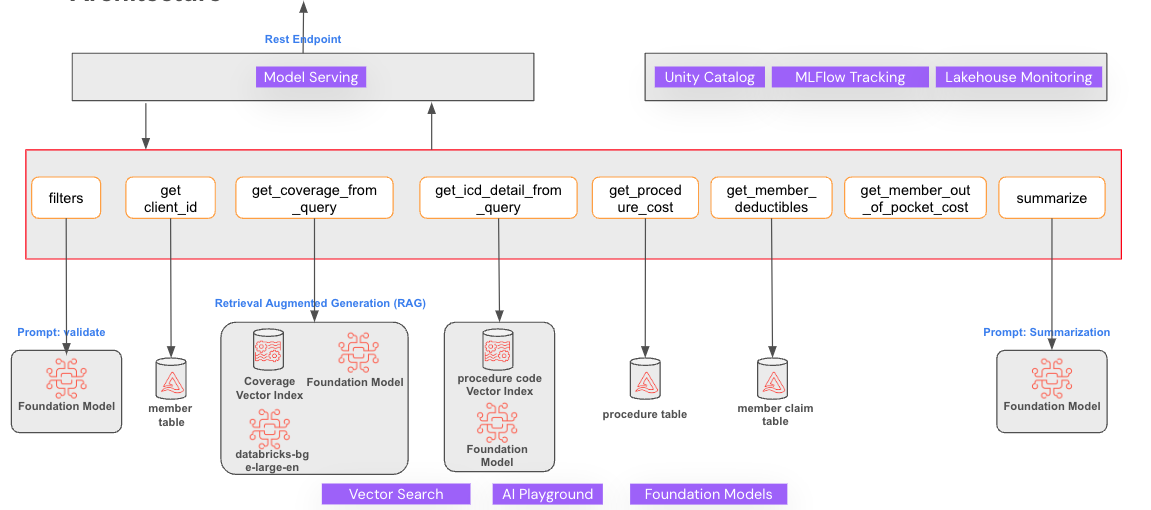
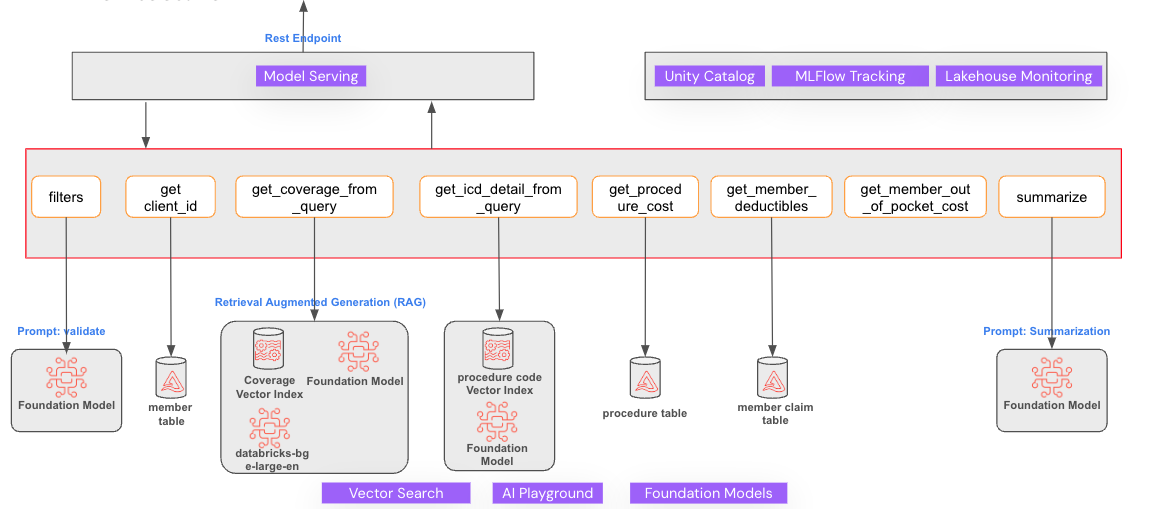
images and documentation

diff --git a/03 Create Vector Index.py b/03 Create Vector Index.py
@@ -6,7 +6,7 @@
 # MAGIC ### Vector Indexes
 # MAGIC Let us start creating vector indexes
 # MAGIC
-# MAGIC <img src="./resources/build_03.png" alt="Vector Indexes" width="700"/>
+# MAGIC <img src="./resources/build_03.png" alt="Vector Indexes" width="900"/>
 # MAGIC
 # MAGIC We will be creating two vector indexes for this project.
 # MAGIC 1. Vector Index for the parsed Summary of Benefits and Coverage chunks

diff --git a/01 Setup Data.py b/01 Setup Data.py
@@ -2,7 +2,7 @@
 # MAGIC %md
 # MAGIC # Prepare Data
 # MAGIC
-# MAGIC <img src="./resources/build_01.png" alt="Prepare Data" width="700"/>
+# MAGIC <img src="./resources/build_01.png" alt="Prepare Data" width="900"/>
 # MAGIC
 # MAGIC
 # MAGIC Let us create some synthetic data to work with. This notebook will create CATALOG and SCHEMA if it does not exist and create the below data tables.

diff --git a/04 Create Online Tables.py b/04 Create Online Tables.py
@@ -5,7 +5,7 @@
 # MAGIC
 # MAGIC Let us now create the required Online Tables
 # MAGIC
-# MAGIC <img src="./resources/build_04.png" alt="Online Tables" width="700"/>
+# MAGIC <img src="./resources/build_04.png" alt="Online Tables" width="900"/>
 # MAGIC
 # MAGIC We will be needing online tables for our `member_enrolment`, `member_accumulatord` and `procedure_cost` table.
 

diff --git a/06 a Assemble Application as PyFunc.py b/06 a Assemble Application as PyFunc.py
@@ -3,7 +3,7 @@
 # MAGIC ###Assemble the Care Cost Compass Application
 # MAGIC We will assemble our compound gen ai application as a custom pyfunc model 
 # MAGIC
-# MAGIC <img src="./resources/build_06.png" alt="Assemble Agent" width="700"/>
+# MAGIC <img src="./resources/build_06.png" alt="Assemble Agent" width="900"/>
 
 # COMMAND ----------
 

diff --git a/02 Parsing and Chunking Summary of Benefits.py b/02 Parsing and Chunking Summary of Benefits.py
@@ -1,7 +1,7 @@
 # Databricks notebook source
 # MAGIC %md
 # MAGIC ### Parsing and Chunking Summary of benefits
-# MAGIC <img src="./resources/build_02.png" alt="Parse and Chunk" width="700"/>
+# MAGIC <img src="./resources/build_02.png" alt="Parse and Chunk" width="900"/>
 
 # COMMAND ----------
 

diff --git a/05 a Create All Tools.py b/05 a Create All Tools.py
@@ -2,7 +2,7 @@
 # MAGIC %md
 # MAGIC ###Create All Tools
 # MAGIC
-# MAGIC <img src="./resources/build_05.png" alt="Create Tools" width="700"/>
+# MAGIC <img src="./resources/build_05.png" alt="Create Tools" width="900" />
 
 # COMMAND ----------
 

diff --git a/README.md b/README.md
@@ -49,7 +49,7 @@ In this project, we are attempting to create a Compound Gen AI application that 
 ### Build the Solution in Databricks Workspace
 The given notebooks will build all the application components step-by-step. The whole process looks like this
 
-<img src="./resources/build_full.png" alt="Full Build" width="700"/>``
+<img src="./resources/build_full.png" alt="Full Build" width="700"/>
 
 To run this demo in a Databricks Workspace, follow the below steps
 1. Use [Dabaricks Git Folders](https://docs.databricks.com/en/repos/index.html) and clone the repo into your workspace
